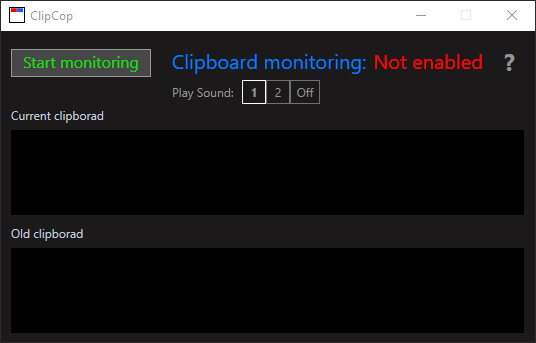
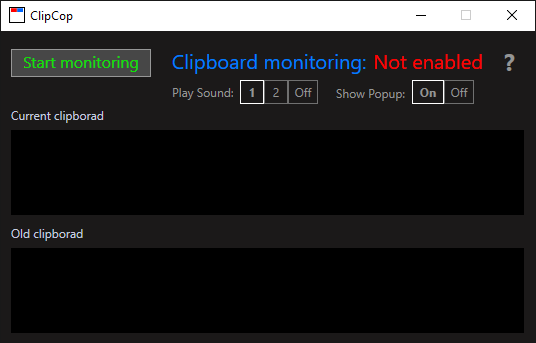
Added popup notification window Added persistent user preferences Updated readme and screenshots

diff --git a/ClipCop/MainWindow.xaml b/ClipCop/MainWindow.xaml
@@ -17,9 +17,12 @@
         <TextBlock x:Name="oldClipboardContents" HorizontalAlignment="Left" Margin="10,217,0,0" TextWrapping="Wrap" VerticalAlignment="Top" Height="85" Width="513" Background="Black" Foreground="#FFAEAEAE"/>
         <Button x:Name="buttonHelp" Content="?" HorizontalAlignment="Center" Margin="497,17,10,267" VerticalAlignment="Center" Width="33" Background="{x:Null}" Foreground="#FF959595" FontSize="24" FontWeight="Bold" BorderThickness="1" Height="36" ToolTip="Help" Click="buttonHelp_Click"/>
         <Label x:Name="soundLabel" Content="Play Sound:" HorizontalAlignment="Left" Margin="166,48,0,0" VerticalAlignment="Top" Width="78" Height="29" Foreground="#FF959595"/>
-        <Button x:Name="sound1" Content="1" HorizontalAlignment="Left" Margin="241,49,0,0" VerticalAlignment="Top" Width="24" Background="{x:Null}" BorderBrush="White" Foreground="#FF959595" Padding="2" Height="24" Click="sound1_Click" FontWeight="Bold"/>
-        <Button x:Name="sound2" Content="2" HorizontalAlignment="Left" Margin="265,49,0,0" VerticalAlignment="Top" Width="24" Background="{x:Null}" BorderBrush="#FF707070" Foreground="#FF959595" Padding="2" Height="24" Click="sound2_Click"/>
-        <Button x:Name="soundOff" Content="Off" HorizontalAlignment="Left" Margin="289,49,0,0" VerticalAlignment="Top" Width="30" Background="{x:Null}" BorderBrush="#FF707070" Foreground="#FF959595" Padding="2" Height="24" Click="soundOff_Click"/>
+        <Button x:Name="sound1" Content="1" HorizontalAlignment="Left" Margin="239,49,0,0" VerticalAlignment="Top" Width="24" Background="{x:Null}" BorderBrush="White" Foreground="#FF959595" Padding="2" Height="24" Click="sound1_Click" FontWeight="Bold"/>
+        <Button x:Name="sound2" Content="2" HorizontalAlignment="Left" Margin="263,49,0,0" VerticalAlignment="Top" Width="24" Background="{x:Null}" BorderBrush="#FF707070" Foreground="#FF959595" Padding="2" Height="24" Click="sound2_Click"/>
+        <Button x:Name="soundOff" Content="Off" HorizontalAlignment="Left" Margin="287,49,0,0" VerticalAlignment="Top" Width="30" Background="{x:Null}" BorderBrush="#FF707070" Foreground="#FF959595" Padding="2" Height="24" Click="soundOff_Click"/>
+        <Label x:Name="popupLabel" Content="Show Popup:" HorizontalAlignment="Left" Margin="330,49,0,0" VerticalAlignment="Top" Width="79" Height="29" Foreground="#FF959595"/>
+        <Button x:Name="popupOff" Content="Off" HorizontalAlignment="Left" Margin="443,49,0,0" VerticalAlignment="Top" Width="30" Background="{x:Null}" BorderBrush="#FF707070" Foreground="#FF959595" Padding="2" Height="24" Click="popupOff_Click"/>
+        <Button x:Name="popupOn" Content="On" HorizontalAlignment="Left" Margin="411,49,0,0" VerticalAlignment="Top" Width="32" Background="{x:Null}" BorderBrush="White" Foreground="#FF959595" Padding="2" Height="24" FontWeight="Bold" Click="popupOn_Click"/>
         <Canvas x:Name="helpScreen" HorizontalAlignment="Left" Height="317" Margin="0,3,0,0" VerticalAlignment="Top" Width="540" Background="Black" Visibility="Hidden">
             <Button x:Name="closeHelpButton" Content="Back" Canvas.Left="10" Canvas.Top="10" Width="47" Background="Black" Foreground="#FF959595" Click="closeHelpButton_Click" FontSize="16"/>
             <Button x:Name="githubButton" Content="Github" Canvas.Left="10" Canvas.Top="281" Width="42" Foreground="#FF20C73F" Background="{x:Null}" BorderBrush="{x:Null}" RenderTransformOrigin="2.035,0.55"/>
@@ -28,7 +31,7 @@
             <Button x:Name="ltcButton" Content="LTC" Canvas.Left="285" Canvas.Top="281" Width="31" Foreground="#FF1D48DC" BorderBrush="{x:Null}" Background="{x:Null}" Click="ltcButton_Click" RenderTransformOrigin="0.682,-1.2"/>
             <Button x:Name="dogeButton" Content="DOGE" Canvas.Left="316" Canvas.Top="281" Width="38" Foreground="#FF1D48DC" Background="{x:Null}" BorderBrush="{x:Null}" Click="dogeButton_Click"/>
             <Label x:Name="label1" Content="Donate" Canvas.Left="180" Canvas.Top="278" Foreground="#FF869B03"/>
-            <Label x:Name="label2" Content="v1.0.0.0" Canvas.Left="487" Canvas.Top="280" Foreground="#FF959595" Background="{x:Null}" FontSize="10"/>
+            <Label x:Name="label2" Content="v1.1.0.0" Canvas.Left="487" Canvas.Top="280" Foreground="#FF959595" Background="{x:Null}" FontSize="10"/>
             <ScrollViewer x:Name="helpScreenScroolViewer" Height="222" Canvas.Left="3" Canvas.Top="46" Width="527" Foreground="White" CanContentScroll="True">
                 <TextBlock x:Name="helpScreenTextBlock" TextWrapping="Wrap" MaxWidth="527" Width="486" FontSize="14" Foreground="#FF959595"><Run Text="ClipCop monitors the Windows clipboard and notifies you when the contents change, by flashing the taskbar icon, and playing a Windows notification sound. The taskbar will flash 25 times, and then remain lit up until you click the ClipCop taskbar icon or application window. It also displays the text that is currently in the clipboard, as well as the most recent change."/><LineBreak/><Run/><LineBreak/><Run Text="ClipCop notifies you of all changes, but if the content in the clipboard is not text, but instead is an image/file/etc, it will say &quot;-- Non-text content --&quot;."/><LineBreak/><Run/><LineBreak/><Run Text="ClipCop was designed primarily to protect cryptocurrency wallet addresses from malicious software that replaces the address in the clipboard to make you send funds to the wrong address."/><LineBreak/><Run/><LineBreak/><Run Text="When you want to send a transaction, start ClipCop, then copy the cryptocurrency address. ClipCop will make a sound, and the icon will start flashing. Click it to stop the flashing, and check that the current clipboard contents match what you copied. Now you have the address in the clipboard, and you can paste it wherever you need to. As long as the icon doesn't light up again, the clipboard has not been changed."/><LineBreak/><Run/><LineBreak/><Run Text="You can check the ClipCop window at any time to see what's currently in the clipboard. If ClipCop detects a change, but you didn't copy anything, then you may have a virus, and you should take appropriate action to secure your PC and protect your crypto."/><LineBreak/><Run/><LineBreak/><Run Text="ClipCop is not responsible for any loss or damage of any kind, and is intended only as a helpful utility with no liability or guarantee."/></TextBlock>
             </ScrollViewer>

diff --git a/ClipCop/MainWindow.xaml.cs b/ClipCop/MainWindow.xaml.cs
@@ -11,7 +11,8 @@ namespace ClipCop
         public string oldClipboard;
         public bool clipboardUpdated = false;
         public bool monitoringEnabled = true;
-        public string soundOption = "1";
+        public int soundOption = Properties.Settings.Default.soundOption;
+        public int popupOption = Properties.Settings.Default.popupOption;
 
         // get the clipboard contents
         public string GetClipboard()
@@ -41,6 +42,57 @@ namespace ClipCop
             }
             clipboardContents.Text = currentClipboard;
             oldClipboard = currentClipboard;
+
+            SetSoundOption();
+            SetPopupOption();
+        }
+
+        // set sound option from settings
+        private void SetSoundOption()
+        {
+            if (soundOption == 1)
+            {
+                sound1.BorderBrush = new SolidColorBrush((Color)ColorConverter.ConvertFromString("#FFFFFFFF"));
+                sound2.BorderBrush = new SolidColorBrush((Color)ColorConverter.ConvertFromString("#FF707070"));
+                soundOff.BorderBrush = new SolidColorBrush((Color)ColorConverter.ConvertFromString("#FF707070"));
+                sound1.FontWeight = FontWeights.Bold;
+                sound2.FontWeight = FontWeights.Normal;
+                soundOff.FontWeight = FontWeights.Normal;
+            } else if (soundOption == 2)
+            {
+                sound1.BorderBrush = new SolidColorBrush((Color)ColorConverter.ConvertFromString("#FF707070"));
+                sound2.BorderBrush = new SolidColorBrush((Color)ColorConverter.ConvertFromString("#FFFFFFFF"));
+                soundOff.BorderBrush = new SolidColorBrush((Color)ColorConverter.ConvertFromString("#FF707070"));
+                sound1.FontWeight = FontWeights.Normal;
+                sound2.FontWeight = FontWeights.Bold;
+                soundOff.FontWeight = FontWeights.Normal;
+            } else if (soundOption == 0)
+            {
+                sound1.BorderBrush = new SolidColorBrush((Color)ColorConverter.ConvertFromString("#FF707070"));
+                sound2.BorderBrush = new SolidColorBrush((Color)ColorConverter.ConvertFromString("#FF707070"));
+                soundOff.BorderBrush = new SolidColorBrush((Color)ColorConverter.ConvertFromString("#FFFFFFFF"));
+                sound1.FontWeight = FontWeights.Normal;
+                sound2.FontWeight = FontWeights.Normal;
+                soundOff.FontWeight = FontWeights.Bold;
+            }
+        }
+
+        // set popup option from settings
+        private void SetPopupOption()
+        {
+            if (popupOption == 1)
+            {
+                popupOn.BorderBrush = new SolidColorBrush((Color)ColorConverter.ConvertFromString("#FFFFFFFF"));
+                popupOff.BorderBrush = new SolidColorBrush((Color)ColorConverter.ConvertFromString("#FF707070"));
+                popupOn.FontWeight = FontWeights.Bold;
+                popupOff.FontWeight = FontWeights.Normal;
+            } else if (popupOption == 0)
+            {
+                popupOff.BorderBrush = new SolidColorBrush((Color)ColorConverter.ConvertFromString("#FFFFFFFF"));
+                popupOn.BorderBrush = new SolidColorBrush((Color)ColorConverter.ConvertFromString("#FF707070"));
+                popupOff.FontWeight = FontWeights.Bold;
+                popupOn.FontWeight = FontWeights.Normal;
+            }
         }
 
         protected override void OnSourceInitialized(EventArgs e)
@@ -53,38 +105,67 @@ namespace ClipCop
         // set audio option
         private void sound1_Click(object sender, RoutedEventArgs e)
         {
-            soundOption = "1";
+            soundOption = 1;
             sound1.BorderBrush = new SolidColorBrush((Color)ColorConverter.ConvertFromString("#FFFFFFFF"));
             sound2.BorderBrush = new SolidColorBrush((Color)ColorConverter.ConvertFromString("#FF707070"));
             soundOff.BorderBrush = new SolidColorBrush((Color)ColorConverter.ConvertFromString("#FF707070"));
             sound1.FontWeight = FontWeights.Bold;
             sound2.FontWeight = FontWeights.Normal;
             soundOff.FontWeight = FontWeights.Normal;
+            Properties.Settings.Default.soundOption = soundOption;
+            Properties.Settings.Default.Save();
         }
 
         private void sound2_Click(object sender, RoutedEventArgs e)
         {
-            soundOption = "2";
+            soundOption = 2;
             sound1.BorderBrush = new SolidColorBrush((Color)ColorConverter.ConvertFromString("#FF707070"));
             sound2.BorderBrush = new SolidColorBrush((Color)ColorConverter.ConvertFromString("#FFFFFFFF"));
             soundOff.BorderBrush = new SolidColorBrush((Color)ColorConverter.ConvertFromString("#FF707070"));
             sound1.FontWeight = FontWeights.Normal;
             sound2.FontWeight = FontWeights.Bold;
             soundOff.FontWeight = FontWeights.Normal;
+            Properties.Settings.Default.soundOption = soundOption;
+            Properties.Settings.Default.Save();
         }
 
         private void soundOff_Click(object sender, RoutedEventArgs e)
         {
-            soundOption = "Off";
+            soundOption = 0;
             sound1.BorderBrush = new SolidColorBrush((Color)ColorConverter.ConvertFromString("#FF707070"));
             sound2.BorderBrush = new SolidColorBrush((Color)ColorConverter.ConvertFromString("#FF707070"));
             soundOff.BorderBrush = new SolidColorBrush((Color)ColorConverter.ConvertFromString("#FFFFFFFF"));
             sound1.FontWeight = FontWeights.Normal;
             sound2.FontWeight = FontWeights.Normal;
             soundOff.FontWeight = FontWeights.Bold;
+            Properties.Settings.Default.soundOption = soundOption;
+            Properties.Settings.Default.Save();
         }
 
+        // set popup option
+        private void popupOn_Click(object sender, RoutedEventArgs e)
+        {
+            popupOption = 1;
+            popupOn.BorderBrush = new SolidColorBrush((Color)ColorConverter.ConvertFromString("#FFFFFFFF"));
+            popupOff.BorderBrush = new SolidColorBrush((Color)ColorConverter.ConvertFromString("#FF707070"));
+            popupOn.FontWeight = FontWeights.Bold;
+            popupOff.FontWeight = FontWeights.Normal;
+            Properties.Settings.Default.popupOption = popupOption;
+            Properties.Settings.Default.Save();
+        }
 
+        private void popupOff_Click(object sender, RoutedEventArgs e)
+        {
+            popupOption = 0;
+            popupOff.BorderBrush = new SolidColorBrush((Color)ColorConverter.ConvertFromString("#FFFFFFFF"));
+            popupOn.BorderBrush = new SolidColorBrush((Color)ColorConverter.ConvertFromString("#FF707070"));
+            popupOff.FontWeight = FontWeights.Bold;
+            popupOn.FontWeight = FontWeights.Normal;
+            Properties.Settings.Default.popupOption = popupOption;
+            Properties.Settings.Default.Save();
+        }
+
+        // do this stuff when the clipboard changes
         private void ClipboardChanged(object sender, EventArgs e)
         {
             if (monitoringEnabled == true)
@@ -108,16 +189,26 @@ namespace ClipCop
                 }
 
                 // play sound
-                if (soundOption == "1")
+                if (soundOption == 1)
                 {
                     SystemSounds.Beep.Play();
-                } else if (soundOption == "2")
+                } else if (soundOption == 2)
                 {
                     SystemSounds.Hand.Play();
                 } else
                 {
 
                 }
+
+                // show popup
+                if (popupOption == 1)
+                {
+                    MessageBox.Show("Clipboard has changed!\n\n" + "Please check the \"Current clipboard\" section of the ClipCop window to verify the clipboard contents.", "ClipCop Notification", MessageBoxButton.OK, MessageBoxImage.Exclamation);
+                } else
+                {
+
+                }
+
             }
         }
 

diff --git a/ClipCop/Properties/Settings.Designer.cs b/ClipCop/Properties/Settings.Designer.cs
@@ -8,22 +8,42 @@
 // </auto-generated>
 //------------------------------------------------------------------------------
 
-namespace ClipCop.Properties
-{
-
-
+namespace ClipCop.Properties {
+    
+    
     [global::System.Runtime.CompilerServices.CompilerGeneratedAttribute()]
-    [global::System.CodeDom.Compiler.GeneratedCodeAttribute("Microsoft.VisualStudio.Editors.SettingsDesigner.SettingsSingleFileGenerator", "11.0.0.0")]
-    internal sealed partial class Settings : global::System.Configuration.ApplicationSettingsBase
-    {
-
+    [global::System.CodeDom.Compiler.GeneratedCodeAttribute("Microsoft.VisualStudio.Editors.SettingsDesigner.SettingsSingleFileGenerator", "14.0.0.0")]
+    internal sealed partial class Settings : global::System.Configuration.ApplicationSettingsBase {
+        
         private static Settings defaultInstance = ((Settings)(global::System.Configuration.ApplicationSettingsBase.Synchronized(new Settings())));
-
-        public static Settings Default
-        {
-            get
-            {
+        
+        public static Settings Default {
+            get {
                 return defaultInstance;
+            }
+        }
+        
+        [global::System.Configuration.UserScopedSettingAttribute()]
+        [global::System.Diagnostics.DebuggerNonUserCodeAttribute()]
+        [global::System.Configuration.DefaultSettingValueAttribute("1")]
+        public int soundOption {
+            get {
+                return ((int)(this["soundOption"]));
+            }
+            set {
+                this["soundOption"] = value;
+            }
+        }
+        
+        [global::System.Configuration.UserScopedSettingAttribute()]
+        [global::System.Diagnostics.DebuggerNonUserCodeAttribute()]
+        [global::System.Configuration.DefaultSettingValueAttribute("1")]
+        public int popupOption {
+            get {
+                return ((int)(this["popupOption"]));
+            }
+            set {
+                this["popupOption"] = value;
             }
         }
     }

diff --git a/ClipCop/Properties/AssemblyInfo.cs b/ClipCop/Properties/AssemblyInfo.cs
@@ -8,9 +8,9 @@ using System.Windows;
 // set of attributes. Change these attribute values to modify the information
 // associated with an assembly.
 [assembly: AssemblyTitle("ClipCop")]
-[assembly: AssemblyDescription("")]
+[assembly: AssemblyDescription("Clipboard monitoring utility for Windows")]
 [assembly: AssemblyConfiguration("")]
-[assembly: AssemblyCompany("blevok")]
+[assembly: AssemblyCompany("ClipCop")]
 [assembly: AssemblyProduct("ClipCop")]
 [assembly: AssemblyCopyright("Copyright ©  2019")]
 [assembly: AssemblyTrademark("")]
@@ -51,5 +51,5 @@ using System.Windows;
 // You can specify all the values or you can default the Build and Revision Numbers 
 // by using the '*' as shown below:
 // [assembly: AssemblyVersion("1.0.*")]
-[assembly: AssemblyVersion("1.0.0.0")]
-[assembly: AssemblyFileVersion("1.0.0.0")]
+[assembly: AssemblyVersion("1.1.0.0")]
+[assembly: AssemblyFileVersion("1.1.0.0")]

diff --git a/README.md b/README.md
@@ -1,11 +1,11 @@
 # ClipCop
 
-ClipCop is a WPF desktop app written in C# that monitors the Windows clipboard and notifies you when the contents change, by flashing the taskbar icon, and playing a Windows notification sound. The taskbar will flash 25 times, and then remain lit up until you click the ClipCop taskbar icon or application window. It also displays the text that is currently in the clipboard, as well as the most recent change.
+ClipCop is a WPF desktop app written in C# that monitors the Windows clipboard and notifies you when the contents change by flashing the taskbar icon, and optionally playing a Windows notification sound and popping up a dialog box. The taskbar will flash 25 times, and then remain lit up until you click the ClipCop taskbar icon or application window. It also displays the text that is currently in the clipboard, as well as the most recent change.
 
-ClipCop notifies you of all changes, but if the content in the clipboard is not text, but instead is an image/file/etc, it will say "-- Non-text content --".
+ClipCop notifies you of all changes, but if the content in the clipboard is not text, and instead is an image/file/etc, it will say "-- Non-text content --".
 
 ClipCop was designed primarily to protect cryptocurrency wallet addresses from malicious software that replaces the address in the clipboard to make you send funds to the wrong address.
-When you want to send a transaction, start ClipCop, then copy the cryptocurrency address. ClipCop will make a sound, and the icon will start flashing. Click it to stop the flashing, and check that the current clipboard contents match what you copied. Now you have the address in the clipboard, and you can paste it wherever you need to. As long as the icon doesn't light up again, the clipboard has not been changed.
+When you want to send a transaction, start ClipCop, then copy the cryptocurrency address. ClipCop will make a sound and/or show a popup (depending on your settings), and the icon will start flashing. Click the taskbar icon or ClipCop window to stop the flashing, and check that the current clipboard contents match what you copied. Now you have the address in the clipboard, and you can paste it wherever you need to. As long as the icon doesn't light up again, the clipboard has not been changed.
 
 You can check the ClipCop window at any time to see what's currently in the clipboard. If ClipCop detects a change, but you didn't copy anything, then you may have a virus, and you should take appropriate action to secure your PC and protect your crypto.
 
@@ -15,7 +15,7 @@ You can check the ClipCop window at any time to see what's currently in the clip
 
 You can download the pre-compiled program here:
 
-https://github.com/blevok/ClipCop/releases/download/1.0.0.0/ClipCop.exe
+https://github.com/blevok/ClipCop/releases/
 
 ------------------------------
 
@@ -37,7 +37,7 @@ https://github.com/blevok/ClipCop/releases/download/1.0.0.0/ClipCop.exe
 
 ### Disclaimer :
 
-ClipCop and/or the developer is not responsible for any loss or damage of any kind, and is intended only as a helpful utility with no liability or guarantee.
+ClipCop and/or the developer are not responsible for any loss or damage of any kind, and this is intended only as a helpful utility with no liability or guarantee.
 
 ------------------------------
 
